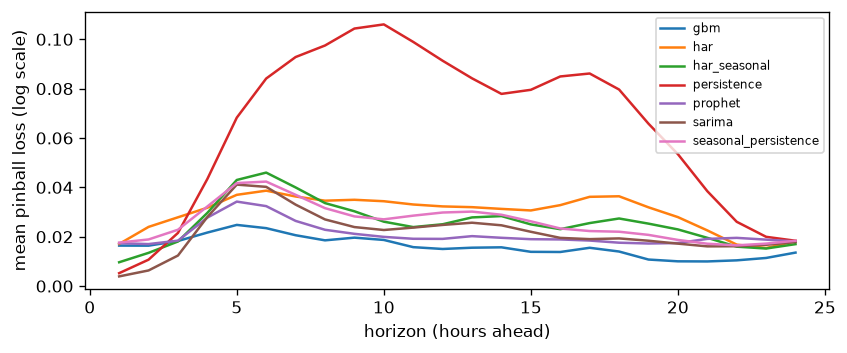
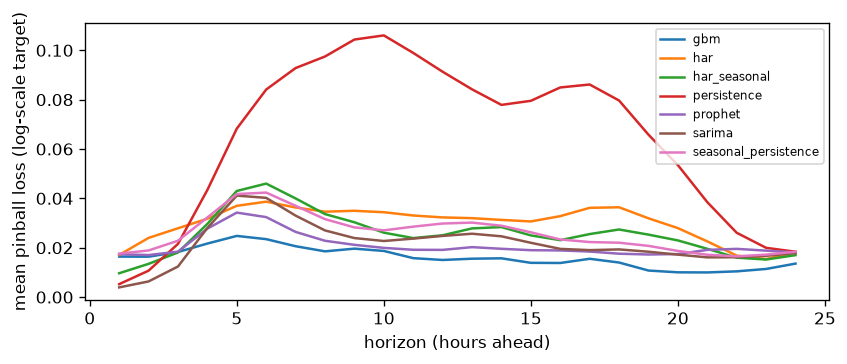
Tighten the calibration-check narrative and the load-demo report
README and the config comment described the fixed floor as naming three
to five models every day for nine days. It named one model for the first
four of those days and three to five from 2026-08-20 on. Correct that,
and restate the standard-error and t-test passages in plainer terms.

Regenerate LOAD_REPORT.md and its horizon figure so they pick up the
report generator changes: the correct parquet filename, the note that
persistence and seasonal_persistence coincide at horizon 24 by
construction, and the note that the pinball-by-horizon curve inherits the
hour-of-day profile because origins all sit at 00:00 UTC.

Changed region(s): [[0.0, 0.0312, 0.9823, 0.966], [0.0, 0.0312, 0.0921, 0.1558]]

diff --git a/src/fbench/config.py b/src/fbench/config.py
@@ -32,8 +32,9 @@ COV90_TARGET = 0.90
 # and reports a model only after it rejects on consecutive days. A fixed
 # floor was tried first and could not separate a miscalibrated model from
 # a noisy one: at ~20 scored days the standard error of day-level
-# coverage is about 0.045, so a floor at 0.80 sat inside the noise, fired
-# on 3 to 5 of 8 models every day for nine days, and swapped which models
-# it named as point estimates drifted a few thousandths.
+# coverage is about 0.045, so a floor at 0.80 sat inside the noise. Its
+# flag list stayed populated for nine straight days (one model the first
+# four, three to five from 2026-08-20) and swapped members as point
+# estimates drifted a few thousandths.
 CALIBRATION_ALPHA = 0.05
 CALIBRATION_PERSISTENCE_DAYS = 3

diff --git a/README.md b/README.md
@@ -70,6 +70,9 @@ python scripts/run_vol_backtest.py # rolling-origin tournament; scores it,
                                    #   logs to MLflow, writes REPORT.md
 python scripts/run_vol_report.py   # re-score an existing backtest parquet
                                    #   without refitting
+python scripts/run_load_demo.py    # generality demo: German hourly load
+                                   #   through the same engine, writes
+                                   #   LOAD_REPORT.md
 python scripts/run_daily.py        # the live loop: score yesterday, log
                                    #   today, write results/REVIEW.md
                                    #   (yesterday's forecast vs realized),
@@ -82,7 +85,8 @@ python scripts/run_verify_timing.py  # audit the live log's evidence claim
 
 `run_vol_backtest.py` takes `--models`, `--stride`, and `--test-days` to run
 subsets quickly, and `--no-report` to stop after writing the backtest
-parquet. Experiment tracking is local MLflow (sqlite backend). Run
+parquet. `run_load_demo.py` takes `--stride` (default 4) and `--test-days`
+(default 365) with the same meanings. Experiment tracking is local MLflow (sqlite backend). Run
 `mlflow ui --backend-store-uri sqlite:///mlflow.db` to browse the runs.
 
 On Windows, Prophet's pip wheel worked as-is here (cmdstanpy backend,
@@ -100,8 +104,8 @@ trailing (rewriting the future changes nothing in the past), enforces the
 adapter contract for every registered model, checks pinball loss against
 hand-computed values, and uses a spy model to prove the backtest engine
 never shows a model data past its origin. It also pins the calibration
-check: that a rejection short of the persistence requirement is reported
-as pending rather than flagged, that the multiple-comparison correction
+check: that a rejection streak shorter than the three-consecutive-day
+requirement is reported as pending rather than flagged, that the multiple-comparison correction
 scales with the number of models tested, and that a model whose daily
 coverage has no spread gets no verdict at all.
 
@@ -113,30 +117,35 @@ sits near 0.90, and a model that sits well below it is claiming more
 precision than it has.
 
 The first version of the check compared that column against a fixed
-floor of 0.80 and named anything underneath. It ran that way from
-2026-08-16 to 2026-08-24 and named three to five of the eight models
-every single day, so the check carried no information. A signal that is
-always on cannot tell you when something changed.
+floor of 0.80 (the band also had a 0.98 ceiling no model ever
+approached) and named anything underneath. From 2026-08-16 to
+2026-08-24 it named `gbm` every day, and from 2026-08-20 on the list
+grew to three to five of the eight models. The list never emptied, so
+the check carried no information. A signal that is always on cannot
+tell you when something changed.
 
 The problem was that the floor sat inside the noise. Hourly rows within
 a day are strongly dependent, so the effective sample is the number of
-scored days, not the row count, and at 21 scored days the standard error
-of a model's day-level coverage is about 0.045. The gap between the 0.80
+scored days, not the row count. At 21 scored days the standard error
+of a typical model's day-level coverage, the noise expected in that
+average from 21 days alone, is about 0.045. The gap between the 0.80
 floor and the 0.90 target is roughly two standard errors wide, so a
 perfectly calibrated model crosses it routinely. The membership of the
 flagged list showed exactly that. On 2026-08-24, `seasonal_persistence`
-left the list at 0.8056 while `har_seasonal` stayed on it at 0.7956,
-two numbers a tenth of a standard error apart, even though
-`seasonal_persistence` had the stronger evidence of undercoverage of the
-two (t = -2.15 against -1.89) because its day-to-day spread was tighter.
-`har` appeared for two days and left; `seasonal_persistence` appeared for
-five and left. Nothing about those models had changed.
+left the list at 0.8056 while `har_seasonal` stayed on it at 0.7956.
+Those two numbers sit about a fifth of a standard error apart. Of the
+two, `seasonal_persistence` had the stronger evidence of undercoverage
+(t = -2.15 against -1.89), because its day-to-day spread was tighter.
+`har` appeared for two days and left. `seasonal_persistence` appeared
+for four days and left. Nothing about those models had changed.
 
 The check now tests the evidence instead of the point estimate. It takes
-each model's coverage one day at a time, runs a two-sided t-test of those
-daily figures against 0.90, and applies a Bonferroni correction across
-the models tested, since testing eight at once produces a false rejection
-often at an uncorrected 5%. A model is reported only after it rejects on
+each model's coverage one day at a time and runs a two-sided t-test of
+those daily figures against 0.90, asking whether their average sits
+farther from 0.90 than their own spread explains. It then applies a
+Bonferroni correction across the models tested, because testing eight
+at once at an uncorrected 5% level produces false rejections routinely.
+A model is reported only after it rejects on
 three consecutive scored days. Earlier verdicts are recomputed from
 `evaluation.csv` rather than stored, so the whole check is reproducible
 from the log with no state file that could drift out of step with the
@@ -144,11 +153,12 @@ data.
 
 Replayed over every scored day, the new check has never fired. It is not
 silent by construction, though. At the current day-to-day spread it
-reports a model whose 90% band is really covering about 0.76 or less, and
+reports a model whose 90% band is really covering about 0.76 or less.
 `gbm` at 0.7798 sits 0.018 above its own firing point, closer than any
-other model and closest of any day so far on 2026-08-18 (p = 0.0108
-against a corrected threshold of 0.0063). What changed is that `gbm` is
-now described as the model to watch rather than announced as a failure.
+other model. Its closest approach so far came on 2026-08-18, a p-value
+of 0.0108 against a corrected threshold of 0.0063. What changed is how
+that number reads. `gbm` is now the model to watch, not an announced
+failure.
 
 The check stays silent in two cases on purpose. A model with fewer than
 10 scored days gets no verdict, because three clean quiet days once
@@ -160,26 +170,27 @@ inventing one would repeat the mistake the fixed floor made.
 ## Limitations and next steps
 
 The live log is young, 21 scored days as of 2026-08-24, so the LIVE.md
-leaderboard will stay noisy until the sample grows, and its coverage
-columns carry real uncertainty because each day contributes about 24
-dependent hourly rows; the calibration check above quantifies that
+leaderboard will stay noisy until the sample grows. Its coverage
+columns carry real uncertainty, because each day contributes about 24
+dependent hourly rows. The calibration check above quantifies that
 uncertainty rather than reading the column as exact. The load demo runs the classical models only, without N-HiTS,
 so the cross-series comparison covers seven entrants rather than eight.
 The volatility tournament is a single asset, and nothing here shows the
 ranking holds on other coins or other markets. Every model's coverage
-sits below 0.90, none above, and that one-sided pattern across all eight
-is a real if weak signal that the bands are narrow, which no per-model
-test will settle at this sample size; it is the reason the check was
+sits below 0.90, none above. That one-sided pattern across all eight is
+a weak but real signal that the bands are narrow, and no per-model test
+will settle it at this sample size. It is the reason the check was
 rebuilt rather than removed. The fixed-floor calibration check first
 flagged five models below the 0.80 coverage floor on 2026-08-21, after a
 2026-08-19 forecast day whose realized volatility ran 3.67 times the
-median forecast. An adaptive conformal layer (a band-widening rule driven
-by recent coverage misses) was replayed over the 18 scored days and lifted
-every flagged model above the floor at no pinball cost, but it widened
-the 08-19 band by almost nothing, because the two days before it were
-clean and the rule reacts only to misses it has seen. It was not adopted;
-the bands stay as each model produces them, and the coverage column is
-the honest record of that. The fixed floor was replaced on 2026-08-24
-by the evidence-based check described above, after nine consecutive days
-in which it named three to five models without that list meaning
-anything. The remaining next step is adding N-HiTS to the load demo.
+nhits median forecast. I replayed an adaptive conformal layer (a
+band-widening rule driven by recent coverage misses) over the 18 scored
+days then available. It lifted every flagged model above the floor at
+no pinball cost. But it widened the 08-19 band by almost nothing,
+because the two days before it were clean and the rule reacts only to
+misses it has seen. It was not adopted. The bands stay as each model
+produces them, and the coverage column is the honest record of that.
+The fixed floor was replaced on 2026-08-24 by the evidence-based check
+described above, after its list had stayed populated for nine
+consecutive days without that membership meaning anything. The
+remaining next step is adding N-HiTS to the load demo.

diff --git a/results/LOAD_REPORT.md b/results/LOAD_REPORT.md
@@ -1,6 +1,6 @@
 # Generality demo: German hourly load (OPSD/ENTSO-E, CC-BY 4.0) (generated)
 
-Results file: backtest_load_DE.parquet. All metrics on the log scale of the target. Coverage targets: cov50 -> 0.50, cov90 -> 0.90.
+Results file: load_backtest_DE.parquet. All metrics are on the log scale of the target. Coverage targets: cov50 -> 0.50, cov90 -> 0.90. skill_vs_persistence is the mean of per-horizon skill scores, so a model can rank differently on skill than on pinball_mean; horizons where persistence does worst weigh most.
 
 ## Dataset
 - hours: 50400, span 2015-01-01 00:00:00+00:00 to 2020-09-30 23:00:00+00:00
@@ -42,6 +42,10 @@ Results file: backtest_load_DE.parquet. All metrics on the log scale of the targ
 | persistence          |         0.0184 | 0.051  | 0.0656 |  0.4783 |  1      |  92 |                 0      |
 | seasonal_persistence |         0.0184 | 0.051  | 0.0656 |  0.4783 |  1      |  92 |                 0      |
 
+The identical persistence and seasonal_persistence rows at horizon 24 are by construction: there the seasonal lag is the same last observed hour, and both bands draw on the same 24-hour change distribution.
+
 ![hourly profile](fig_load_hourly_profile.png)
 
 ![pinball by horizon](fig_load_pinball_by_horizon.png)
+
+Backtest origins all sit at 00:00 UTC, so a given horizon always lands on the same UTC clock hour, and the pinball-by-horizon curve inherits the hour-of-day profile above (correlation 0.92 between the two curves on this run). A bump at one horizon is largely that clock hour showing through, not a property of forecasting that far ahead.
